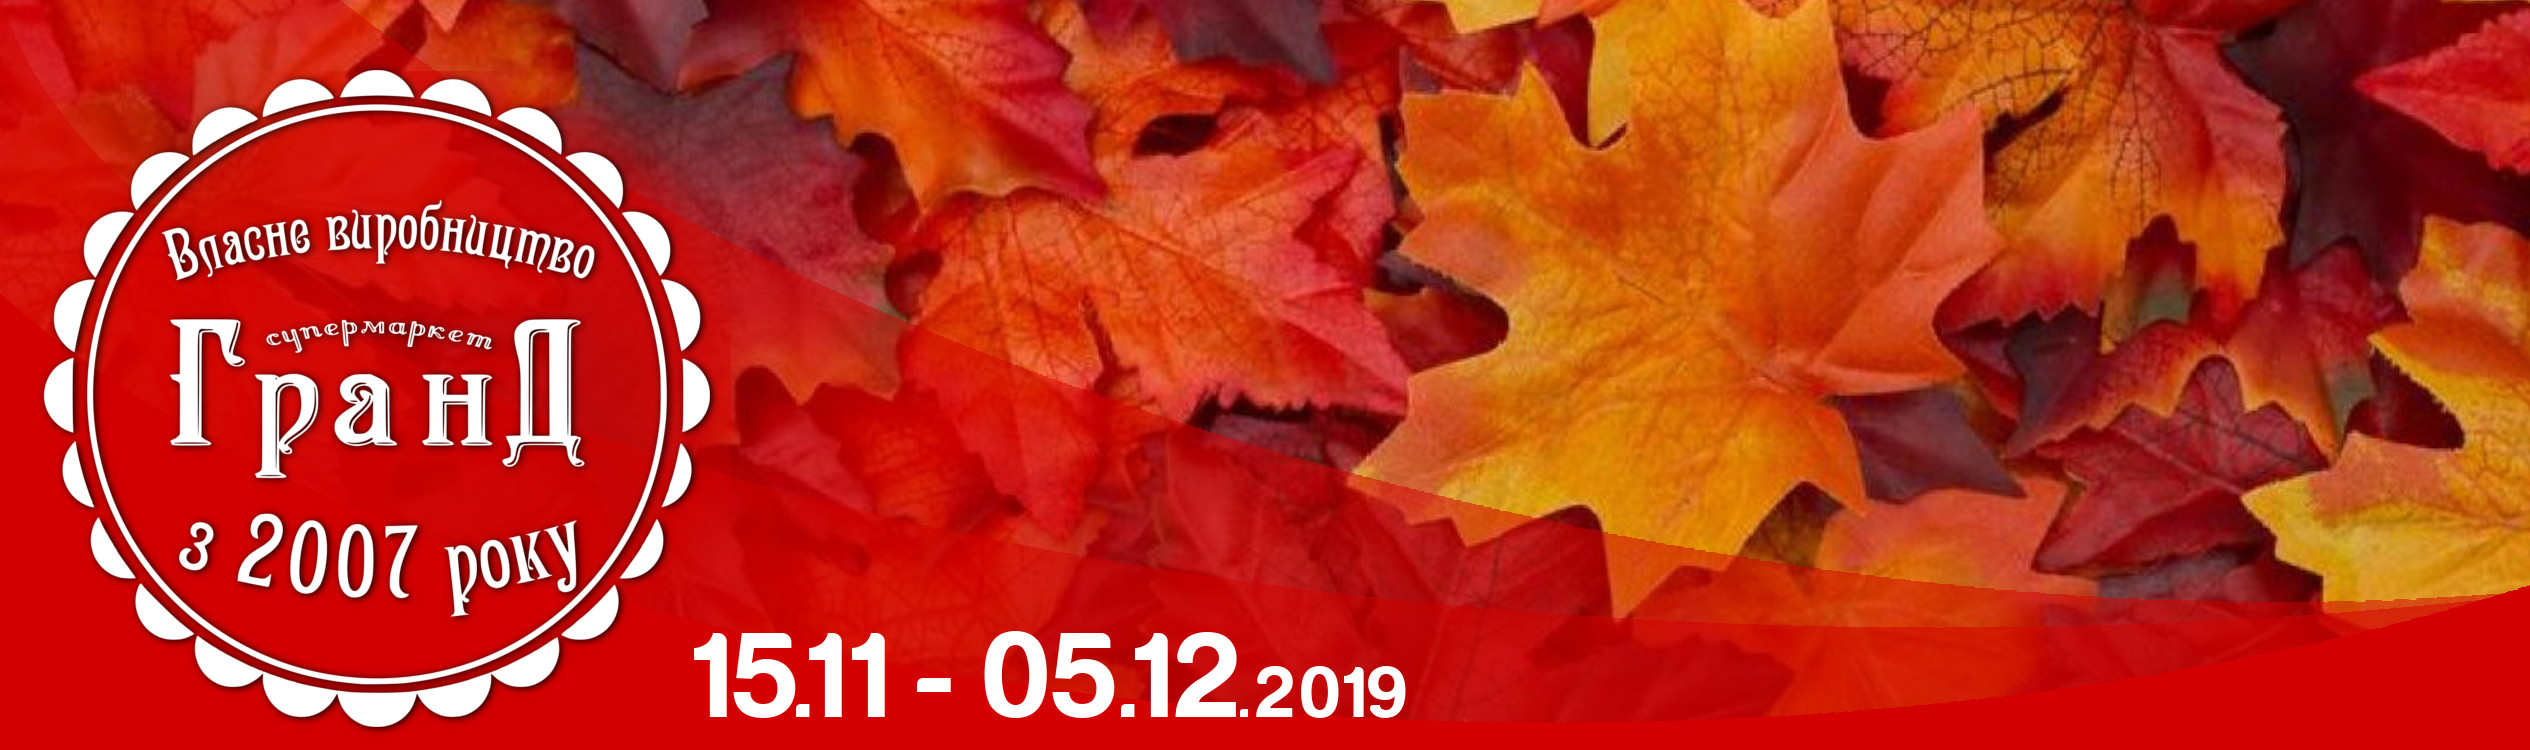
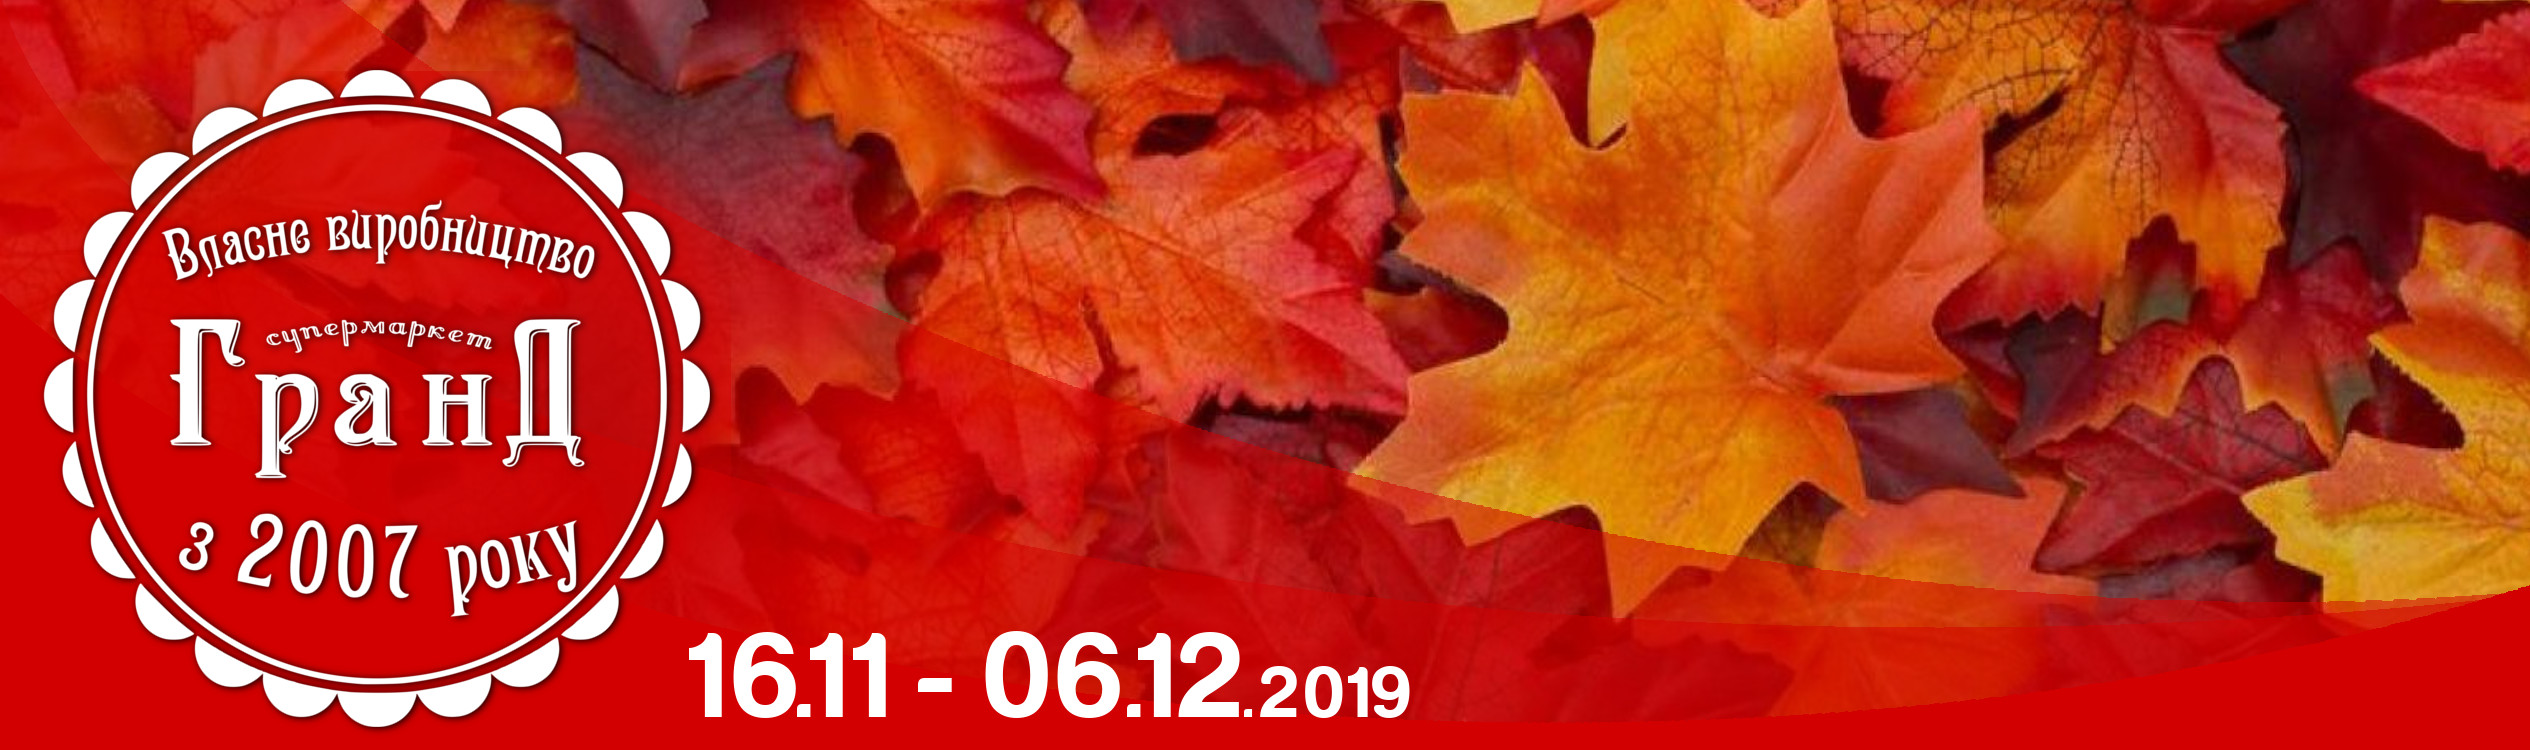
buklet-11.3

Changed region(s): [[0.4059, 0.828, 0.5621, 0.9507], [0.281, 0.828, 0.3435, 0.9507]]

diff --git a/grand/buklet/base1.js b/grand/buklet/base1.js
@@ -1,14 +1,14 @@
-let dataVid = '15.11'
-let dataDo = '05.12';
+let dataVid = '16.11'
+let dataDo = '06.12';
 let base = [
     
     {pic:"24", desc: `Торт "Баунті"$100г`, disc:'50%', priceO :'1600', priceN:'800'},
     {pic:"20", desc: `Пиріг яблучний пісний$100г`, disc:'50%', priceO :'1000', priceN:'500'},
     {pic:"9", desc: `Круасан "GRAND FOOD" з повидлом$100г`, disc: `50%`, priceO :'1100', priceN:'550'},
-    {pic:"23", desc: `Булочка з сливою$90г`, disc:'50%', priceO :'600', priceN:'300'},
+    {pic:"23", desc: `Булочка зі сливою$90г`, disc:'50%', priceO :'600', priceN:'300'},
     {pic:"22", desc: `Булочка сезамова$80г`, disc:'50%', priceO :'550', priceN:'275'},    
     {pic:"21", desc: `Печиво з арахісом$100г`, disc:'50%', priceO :'900', priceN:'450'},
-    {pic:"25", desc: `Пиріжки з квашеною капустою$150г`, disc:'50%', priceO :'1000', priceN:'500'},   
+    {pic:"25", desc: `Пиріжки з квашеною капустою та картоплею$150г`, disc:'50%', priceO :'1000', priceN:'500'},   
     {pic:"19", desc: `Паніні "GRAND FOOD"$в асортименті$200г`, disc:'45%', priceO :'2500', priceN:'1400'},
     {pic:"5", desc: `Гурка$100г`, disc:'40%', priceO :'1100', priceN:'660'},
     {pic:"8", desc: `Салат "Вінігрет овочевий"$100г`, disc:'50%', priceO :'800', priceN:'400'},
@@ -19,16 +19,16 @@ let base = [
   {pic:"26", desc: `Картопля`, disc:'XIT', priceO :'  ', priceN:'  '},
   {pic:"13", desc: `Сир "Голландський"$ТМ "Канів"$100г`, disc:'20%', priceO :'2400', priceN:'1890'},
   {pic:"17", desc: `Сметанка ТМ"Моліка" 25%$400г`, disc:'15%', priceO :'1500', priceN: '1300'},
-  {pic:"15", desc: `Йогурт "Растішка" 2%$ТМ "Данон"$115г`, disc:'30%', priceO :'700', priceN:'1300'},
+  {pic:"15", desc: `Йогурт "Растішка" 2%$ТМ "Данон"$115г`, disc:'45%', priceO :'700', priceN:'1300'},
   {pic:"12", desc: `Ковбаса "Фірмова з телятини" варена TM"Тульчин"$505г`, disc:'25%', priceO :'4800', priceN:'3500'},
   {pic:"16", desc: `Ковбаса "Боярська" варена$TM "Світ Мяса"$100г `, disc:'XIT', priceO :' ', priceN:'570'},
   {pic:"30", desc: `Оселедець "Балтійський"$100г`, disc:'15%', priceO :'650', priceN:'540'},
   {pic:"1", desc: `Кава "Форт" Еліт мелена$225г`, disc:'XIT', priceO :' ', priceN:'2900'},
-  {pic:"7", desc: `Жувальні цукерки-асорті МАМВА$79,5г`, disc:'25%', priceO :'2800', priceN:'1800'},
+  {pic:"7", desc: `Жувальні цукерки-асорті МАМВА$79,5г`, disc:'35%', priceO :'2800', priceN:'1800'},
   {pic:"3b", desc: `Печиво здобне збивне "Деліція"$зі смаком вишні$100г`, disc:'25%', priceO :'900', priceN:'690'},
-  {pic:"29", desc: `Цукерки глазуровані "Біла ромашка" TM "ЖЛ"$100г`, disc:'20%', priceO :'1100', priceN:'690'},
-  {pic:"18", desc: `Приправа універсальна "12 овочів і трав" в гранулах Деко 170г`, disc:'20%', priceO :'3000', priceN:'2000'},
-  {pic:"10", desc: `Каша "АХА" вівсяна$в асортиментi$40г`, disc:'15%', priceO :'1100', priceN:'800'},
+  {pic:"29", desc: `Цукерки глазуровані "Біла ромашка" TM "ЖЛ"$100г`, disc:'35%', priceO :'1100', priceN:'690'},
+  {pic:"18", desc: `Приправа універсальна "12 овочів і трав" в гранулах Деко 170г`, disc:'35%', priceO :'3000', priceN:'2000'},
+  {pic:"10", desc: `Каша "АХА" вівсяна$в асортиментi$40г`, disc:'25%', priceO :'1100', priceN:'800'},
   {pic:"28", desc: `Пиво Туборг "Грін"$0,5л`, disc:'30%', priceO :'2000', priceN:'1400'},
   {pic:"11", desc: `Сік "Соки України"$виногр/ябл./мультивітамін$1л`, disc:'30%', priceO :'2000', priceN:'1400'},
   {pic:"2", desc: `Hапій "Оболонь" Живчик$Яблуко, Апельсин$2л`, disc:'25%', priceO :'2600', priceN:'1900'}
